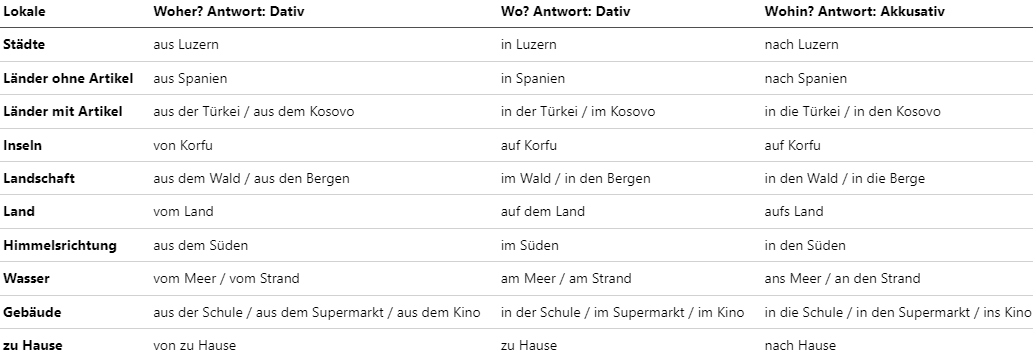
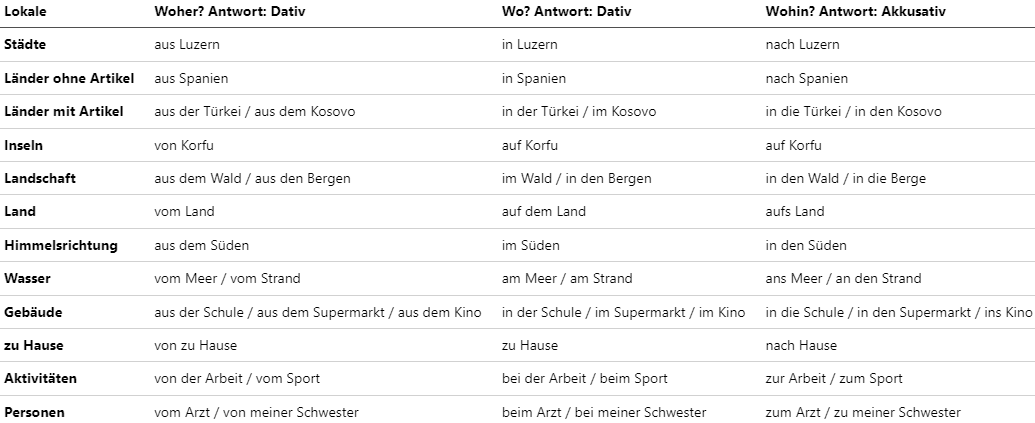
Aded activities and people to lokale

diff --git a/lokale.md b/lokale.md
@@ -10,3 +10,5 @@
 | **Wasser**              | vom Meer / vom Strand                              | am Meer / am Strand                     | ans Meer / an den Strand                     |
 | **Gebäude**             | aus der Schule / aus dem Supermarkt / aus dem Kino | in der Schule / im Supermarkt / im Kino | in die Schule / in den Supermarkt / ins Kino |
 | **zu Hause**            | von zu Hause                                       | zu Hause                                | nach Hause                                   |
+| **Aktivitäten**         | von der Arbeit / vom Sport                         | bei der Arbeit / beim Sport             | zur Arbeit / zum Sport                       |
+| **Personen**            | vom Arzt / von meiner Schwester                    | beim Arzt / bei meiner Schwester        | zum Arzt / zu meiner Schwester               |
